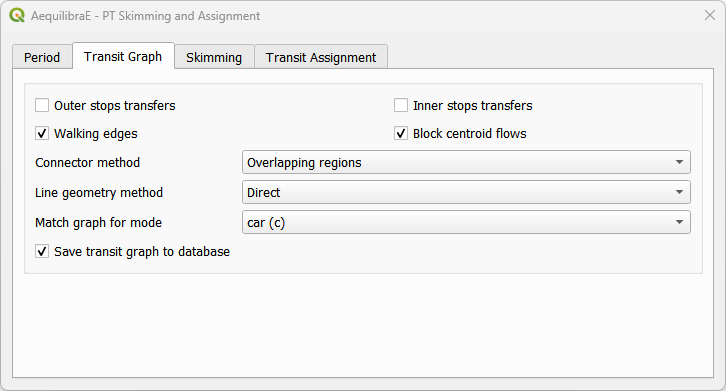
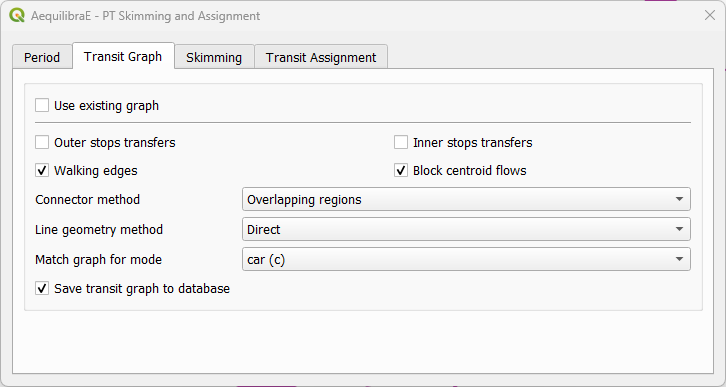
docs

diff --git a/docs/source/menus_in_detail/public_transport.rst b/docs/source/menus_in_detail/public_transport.rst
@@ -135,9 +135,11 @@ the desired period by clicking on it, otherwise an error will be thrown when ski
     :alt: select period
 
 At the tab "*Transit Graph*", we'll set up the configurations of the graph. For this example, we'll
-uncheck the boxes for "walking edges", "block centroid flows", and "save transit graph to database".
-We can let the other settings with their default values. As Coquimbo doesn't have many walking edges,
-we'll match the graph for cars.
+uncheck the boxes for "walking edges", and "block centroid flows". For the purpose of this example,
+we'll let the box "save transit graph to database" checked so we can reuse the graph for assignment.
+Let's change the value of line geometry method to "connector project match" because graphs should
+be created using this method. Finally, as Coquimbo doesn't have many walking edges, we'll match the
+graph for cars.
 
 .. image:: ../images/pt_assign_8.png
     :align: center
@@ -169,10 +171,10 @@ Let's start the example selecting the default period at the periods table.
     :align: center
     :alt: select default period
 
-Now let's configure our transit graph. We'll uncheck the buttons "walking edges" and "block centroid flows",
-however, we'll save the transit graph in the database, just in case we want to re-use it in another project.
-We set the "line geometry method" as "*Connector project match*" because project graphs must be build with
-this method.
+Instead of setting up the graph configurations again, you can reuse the graph currently in memory.
+To do this, select the "Use existing graph" checkbox. The lower section of the "*Transit Graph*"
+tab will then be disabled. If you change your mind, simply clear the checkbox and configure the
+graph settings as needed.
 
 .. image:: ../images/pt_assign_11.png
     :align: center
